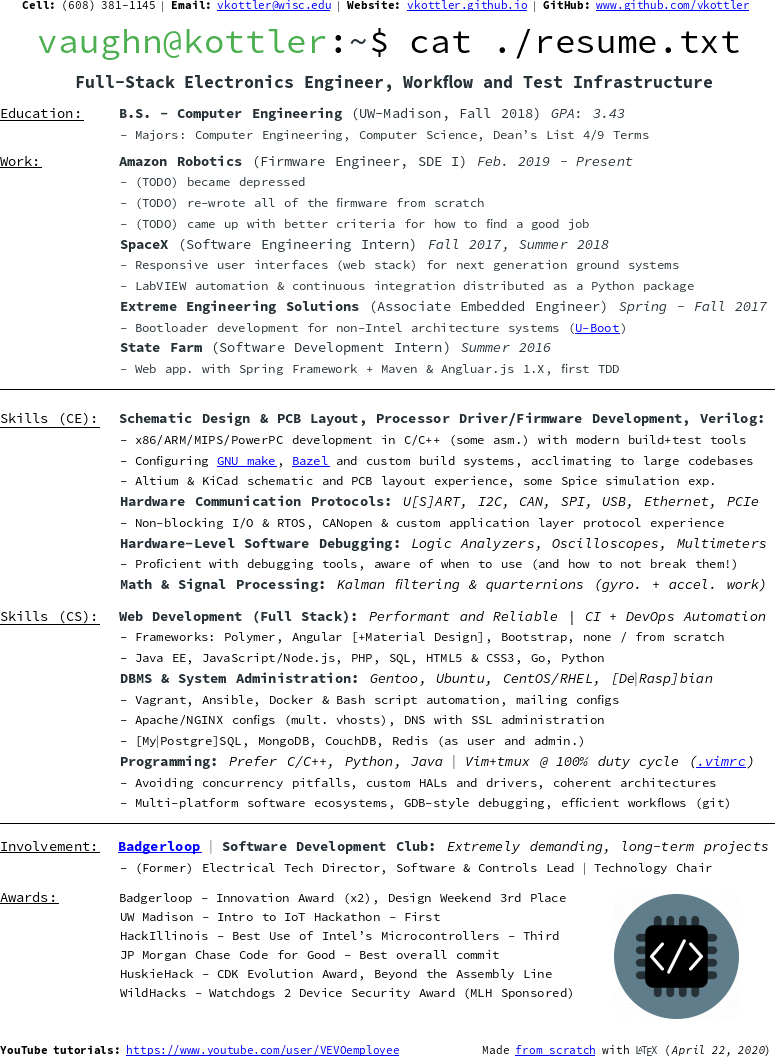
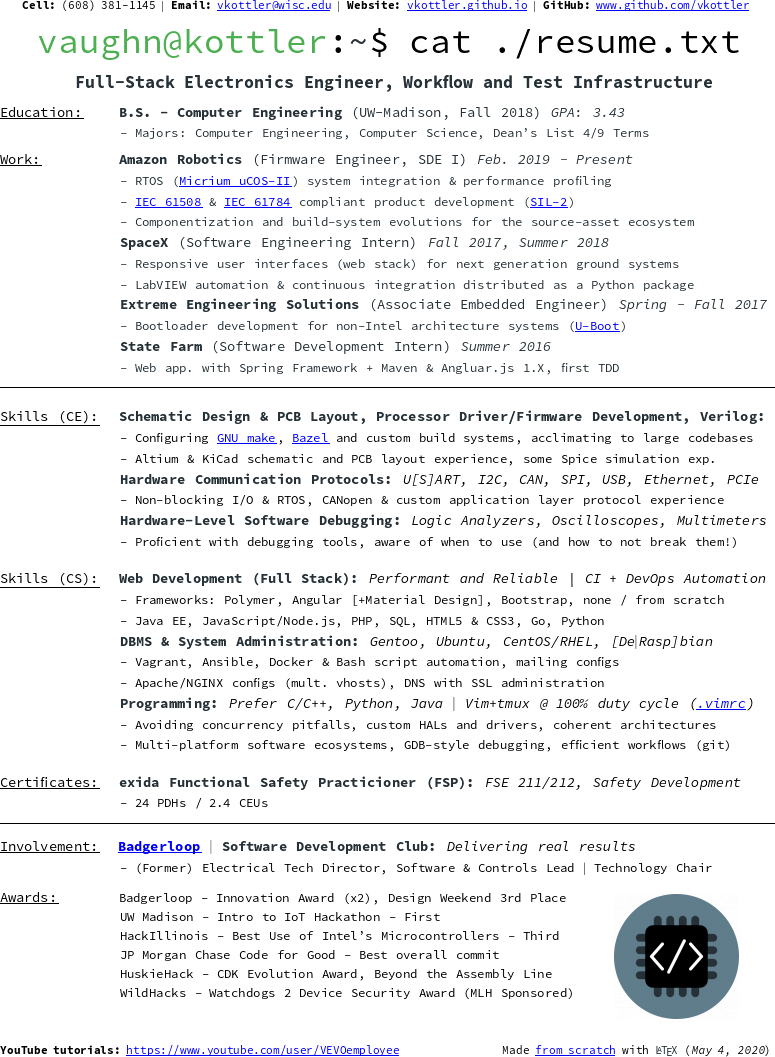
final

diff --git a/sections/work.tex b/sections/work.tex
@@ -5,11 +5,16 @@
 %
 {\begin{adjustwidth}{1.2in}{0in}\setstretch{1.25}
 	%
-    \SECTCONT{(TODO) became depressed}
+    \SECTCONT{RTOS (\HREF{https://www.micrium.com/rtos/kernels/}{Micrium uCOS-II})
+        system integration \& performance profiling}
     %
-    \SECTCONT{(TODO) re-wrote all of the firmware from scratch}
+    \SECTCONT{\HREF{https://www.iec.ch/functionalsafety/explained/}{IEC 61508} \&
+        \HREF{https://webstore.iec.ch/publication/59887}{IEC 61784} compliant
+        product development
+        (\HREF{https://www.crossco.com/resources/articles/determining-safety-integrity-levels-for-your-process-application/}{SIL-2})}
     %
-    \SECTCONT{(TODO) came up with better criteria for how to find a good job}
+    \SECTCONT{Componentization and build-system evolutions for the source-asset
+        ecosystem}
 	%
 	\WORK{SpaceX}{Software Engineering Intern}{Fall 2017, Summer 2018}
 	{Responsive user interfaces (web stack) for next generation ground systems}

diff --git a/sections/skills_cs.tex b/sections/skills_cs.tex
@@ -16,8 +16,6 @@
 		{Vagrant, Ansible, Docker \& Bash script automation, mailing configs}
 	\SECTCONT{Apache/NGINX configs (mult.\ vhosts),
 		DNS with SSL administration}
-	\SECTCONT{[My$\vert$Postgre]SQL, MongoDB, CouchDB, Redis
-		(as user and admin.)}
 	%
 	\SECTC{Programming}
 		{Prefer C/C++, Python, Java $\vert$ Vim+tmux @ 100\% duty cycle
@@ -25,7 +23,7 @@
 			{.vimrc})}
 		{Avoiding concurrency pitfalls, custom HALs and drivers,
 			coherent architectures}
-	\SECTCONTNOBRK{Multi-platform software ecosystems, GDB-style debugging,
+	\SECTCONT{Multi-platform software ecosystems, GDB-style debugging,
 		efficient workflows (git)}
 	%
 \end{adjustwidth}}

diff --git a/sections/skills_ce.tex b/sections/skills_ce.tex
@@ -6,8 +6,6 @@ Development, Verilog}{}
 %
 {\begin{adjustwidth}{1.2in}{0in}\setstretch{1.25}
 	%
-	\SECTCONT{x86/ARM/MIPS/PowerPC development in C/C++ (some asm.)\ with
-		modern build+test tools}
 	\SECTCONT{Configuring \HREF{https://www.gnu.org/software/make/}{GNU make},
 		\HREF{https://bazel.build/}{Bazel} and custom
 		build systems, acclimating to large codebases}
@@ -24,8 +22,4 @@ Development, Verilog}{}
 	{Proficient with debugging tools, aware of when to use
 		(and how to not break them!)}
 	%
-	\SECTHEAD{Math \& Signal Processing}
-	{Kalman filtering \& quarternions (gyro.\ + accel.\ work)}
-	%
-	\vspace{0.15in}
 \end{adjustwidth}}

diff --git a/sections/involvement.tex b/sections/involvement.tex
@@ -1,7 +1,7 @@
 \documentclass[../main.tex]{subfiles}%
 \SECT{Involvement}{1.35em}
 {\HREF{https://badgerloop.com}{Badgerloop} $\vert$ Software Development Club}
-{Extremely demanding, long-term projects}
+{Delivering real results}
 {\begin{adjustwidth}{1.2in}{0in}\setstretch{1.25}
 	\SECTCONTNOBRK{(Former) Electrical Tech Director, Software \&
 		Controls Lead $\vert$ Technology Chair}

diff --git a/sections/certificates.tex b/sections/certificates.tex
@@ -1,0 +1,10 @@
+\documentclass[../main.tex]{subfiles}%
+%
+\SECT{Certificates}{1.4em}{exida Functional Safety Practicioner (FSP)}
+    {FSE 211/212, Safety Development}
+%
+{\begin{adjustwidth}{1.2in}{0in}\setstretch{1.25}
+	%
+	\SECTCONTNOBRK{24 PDHs / 2.4 CEUs}
+	%
+\end{adjustwidth}}

diff --git a/main.tex b/main.tex
@@ -118,6 +118,7 @@
 
 \subfile{sections/skills_ce}\noindent
 \subfile{sections/skills_cs}\noindent
+\subfile{sections/certificates}\noindent
 %\subfile{sections/leadership}\noindent
 \HR
 %
